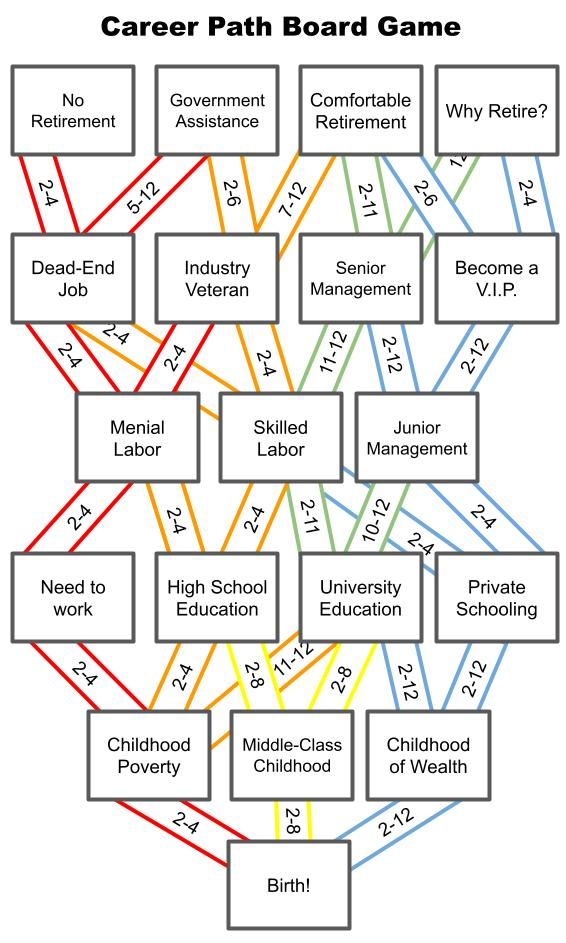
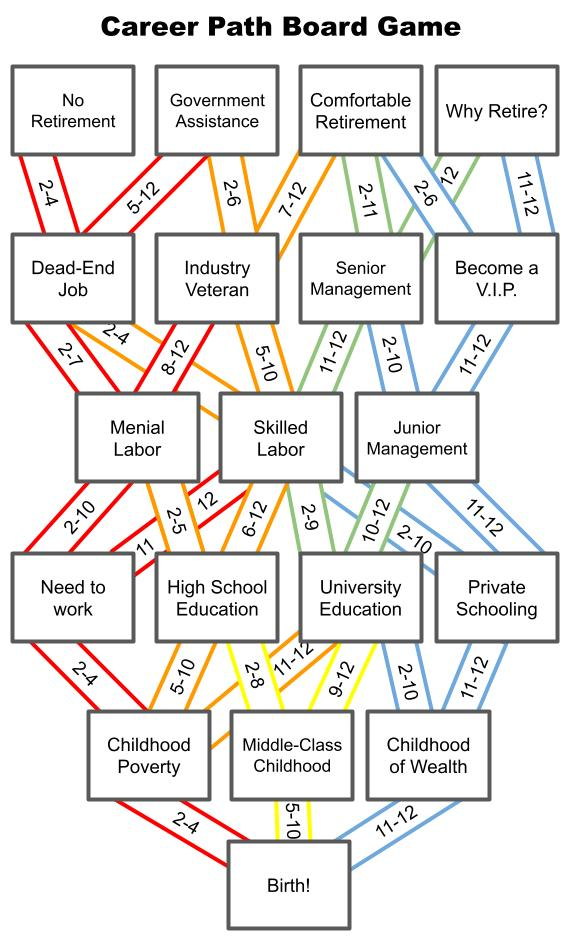
Add min max for dice roll and update career path board game

diff --git a/index.html b/index.html
@@ -11,9 +11,9 @@
         <nav>
           <select name="board-game" id="game-select">
             <optgroup label="Week 6~9">
-              <option value="school-pictures">School Supplies (Pictures)</option>
+              <option selected="selected" value="school-pictures">School Supplies (Pictures)</option>
               <option value="school-words">School Supplies (Words)</option> 
-              <option selected="selected" value="career-path">Career Path Board Game</option>
+              <option value="career-path">Career Path Board Game</option>
             </optgroup>
             
             <optgroup label="Honeycomb Board Games">
@@ -67,6 +67,12 @@
           <svg class="icon" id="dice-btn" xmlns="http://www.w3.org/2000/svg" viewBox="0 0 100 100">
             <path d="M88.89,0H11.11A11.14,11.14,0,0,0,0,11.11V88.89A11.14,11.14,0,0,0,11.11,100H88.89A11.14,11.14,0,0,0,100,88.89V11.11A11.14,11.14,0,0,0,88.89,0ZM25,83.33A8.33,8.33,0,1,1,33.33,75,8.32,8.32,0,0,1,25,83.33Zm0-50A8.33,8.33,0,1,1,33.33,25,8.32,8.32,0,0,1,25,33.33Zm25,25A8.33,8.33,0,1,1,58.33,50,8.32,8.32,0,0,1,50,58.33Zm25,25A8.33,8.33,0,1,1,83.33,75,8.32,8.32,0,0,1,75,83.33Zm0-50A8.33,8.33,0,1,1,83.33,25,8.32,8.32,0,0,1,75,33.33Z"/>
           </svg>
+          <div>
+            <label class="dice-label" for="min">min:</label>
+            <input class="dice-input" type="number" id="min" name="min" value="1">
+            <label class="dice-label" for="max">max:</label>
+            <input class="dice-input" type="number" id="max" name="max" value="6">
+          </div>
           <div class="dropdown">
             <svg class="icon" id="players-btn" xmlns="http://www.w3.org/2000/svg" viewBox="0 0 100 100">
               <path d="M50,50A25,25,0,1,0,25,25,25,25,0,0,0,50,50Zm0,12.5c-16.69,0-50,8.38-50,25V100H100V87.5C100,70.88,66.69,62.5,50,62.5Z"/>
@@ -84,7 +90,7 @@
             </div>
           </div>
         </nav>
-        <img id="board" src="images/career-path.jpg" />
+        <img id="board" src="images/school-pictures.jpg" />
       </div>
       <canvas id="canvas">
         Canvas is not supported by your browser

diff --git a/scripts/index.js b/scripts/index.js
@@ -8,6 +8,7 @@ const addbutton = document.getElementById('add-btn');
 const dicebutton = document.getElementById('dice-btn');
 const dice = document.getElementById('dice');
 const number = document.getElementById('number');
+const min = document.getElementById('min');
 const time = { roll: 0, background: 0 };
 const mouse = { down: false };
 const maxPlayers = 8;
@@ -182,7 +183,7 @@ function checkTime(now) {
 }
 
 function reroll() {
-  const roll = random(2, 12);
+  const roll = random(parseInt(min.value), parseInt(max.value));
   if (number.innerHTML == roll) reroll();
   else number.innerHTML = roll;
 }

diff --git a/styles/main.css b/styles/main.css
@@ -43,6 +43,19 @@ nav {
   transition: opacity .2s;
 }
 
+.dice-label {
+  font-family: "Roboto";
+  font-size: calc(10px + 1vmin);
+}
+
+.dice-input {
+  font-family: "Roboto";
+  font-size: calc(10px + 1vmin);
+  margin: 5px;
+  padding: 5px;
+  width: 60px;
+}
+
 .icon:hover {
   opacity: 100%;
 }
